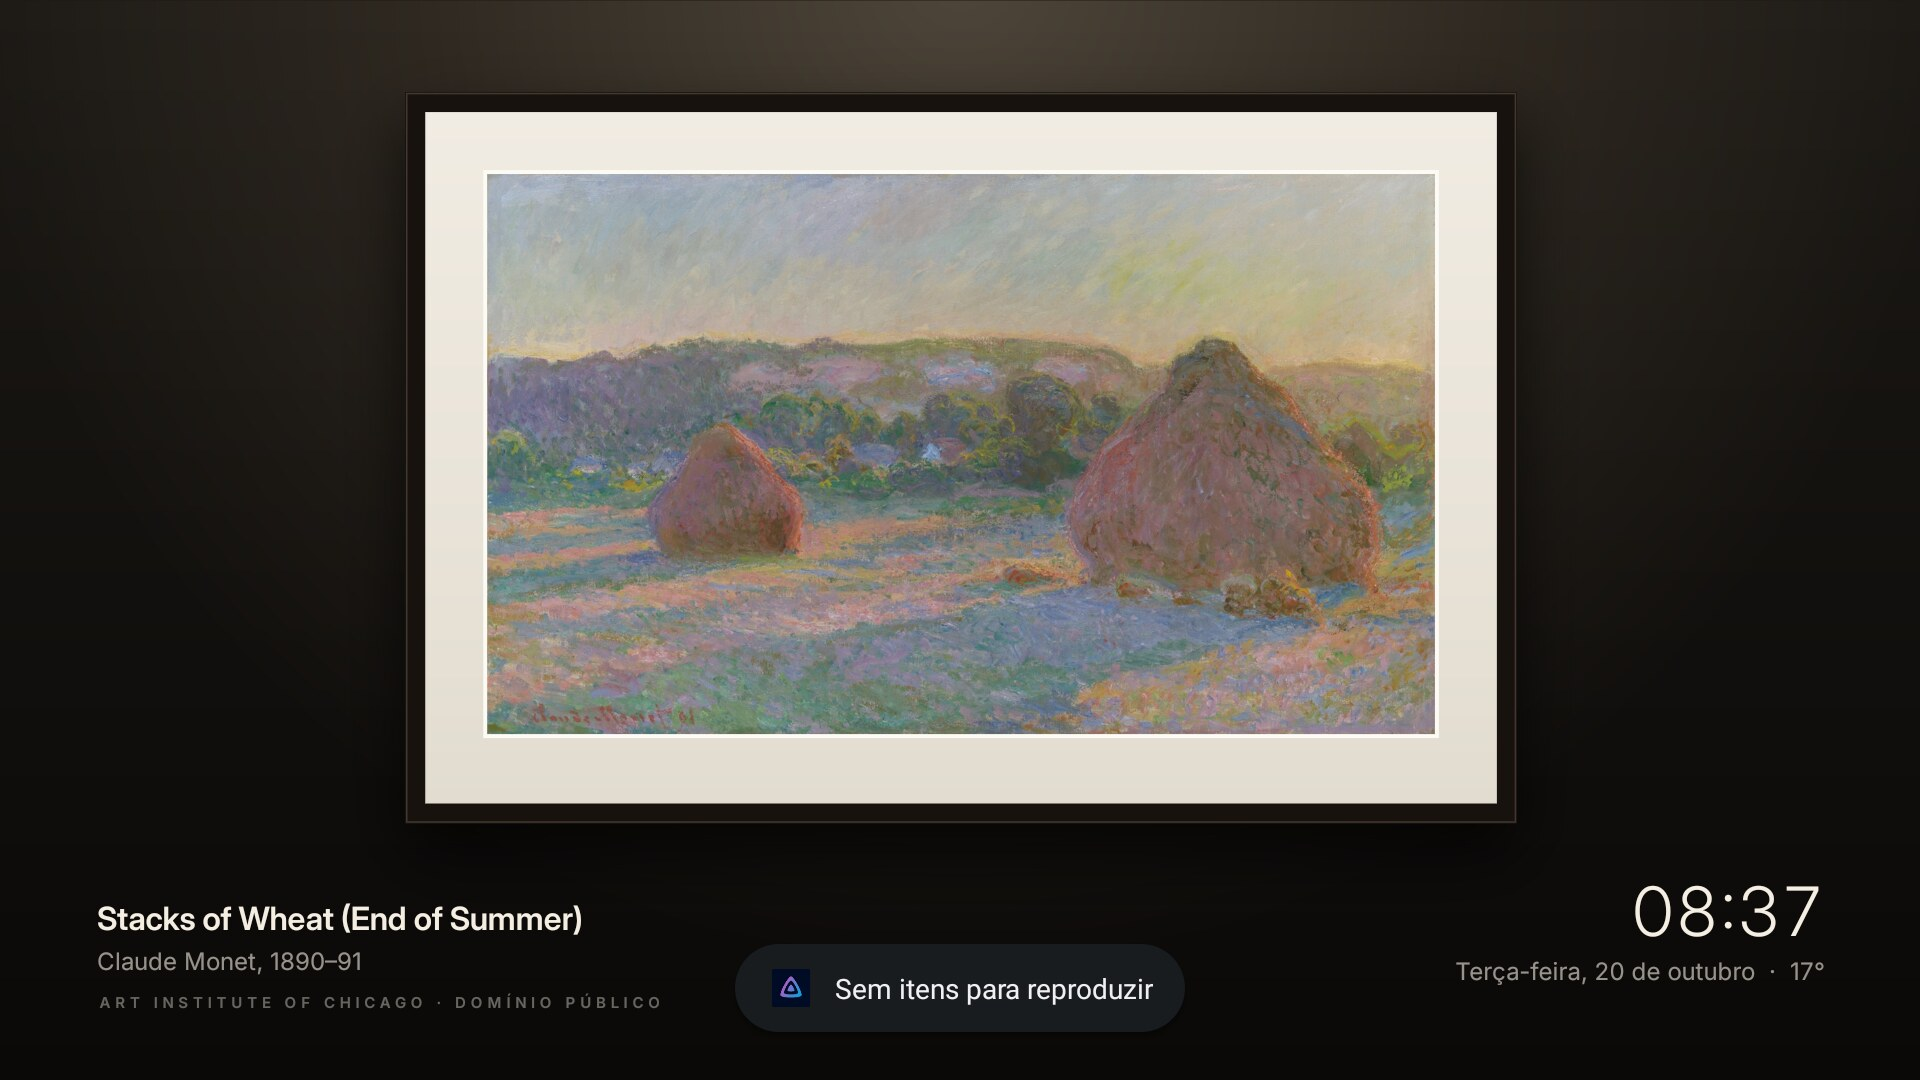
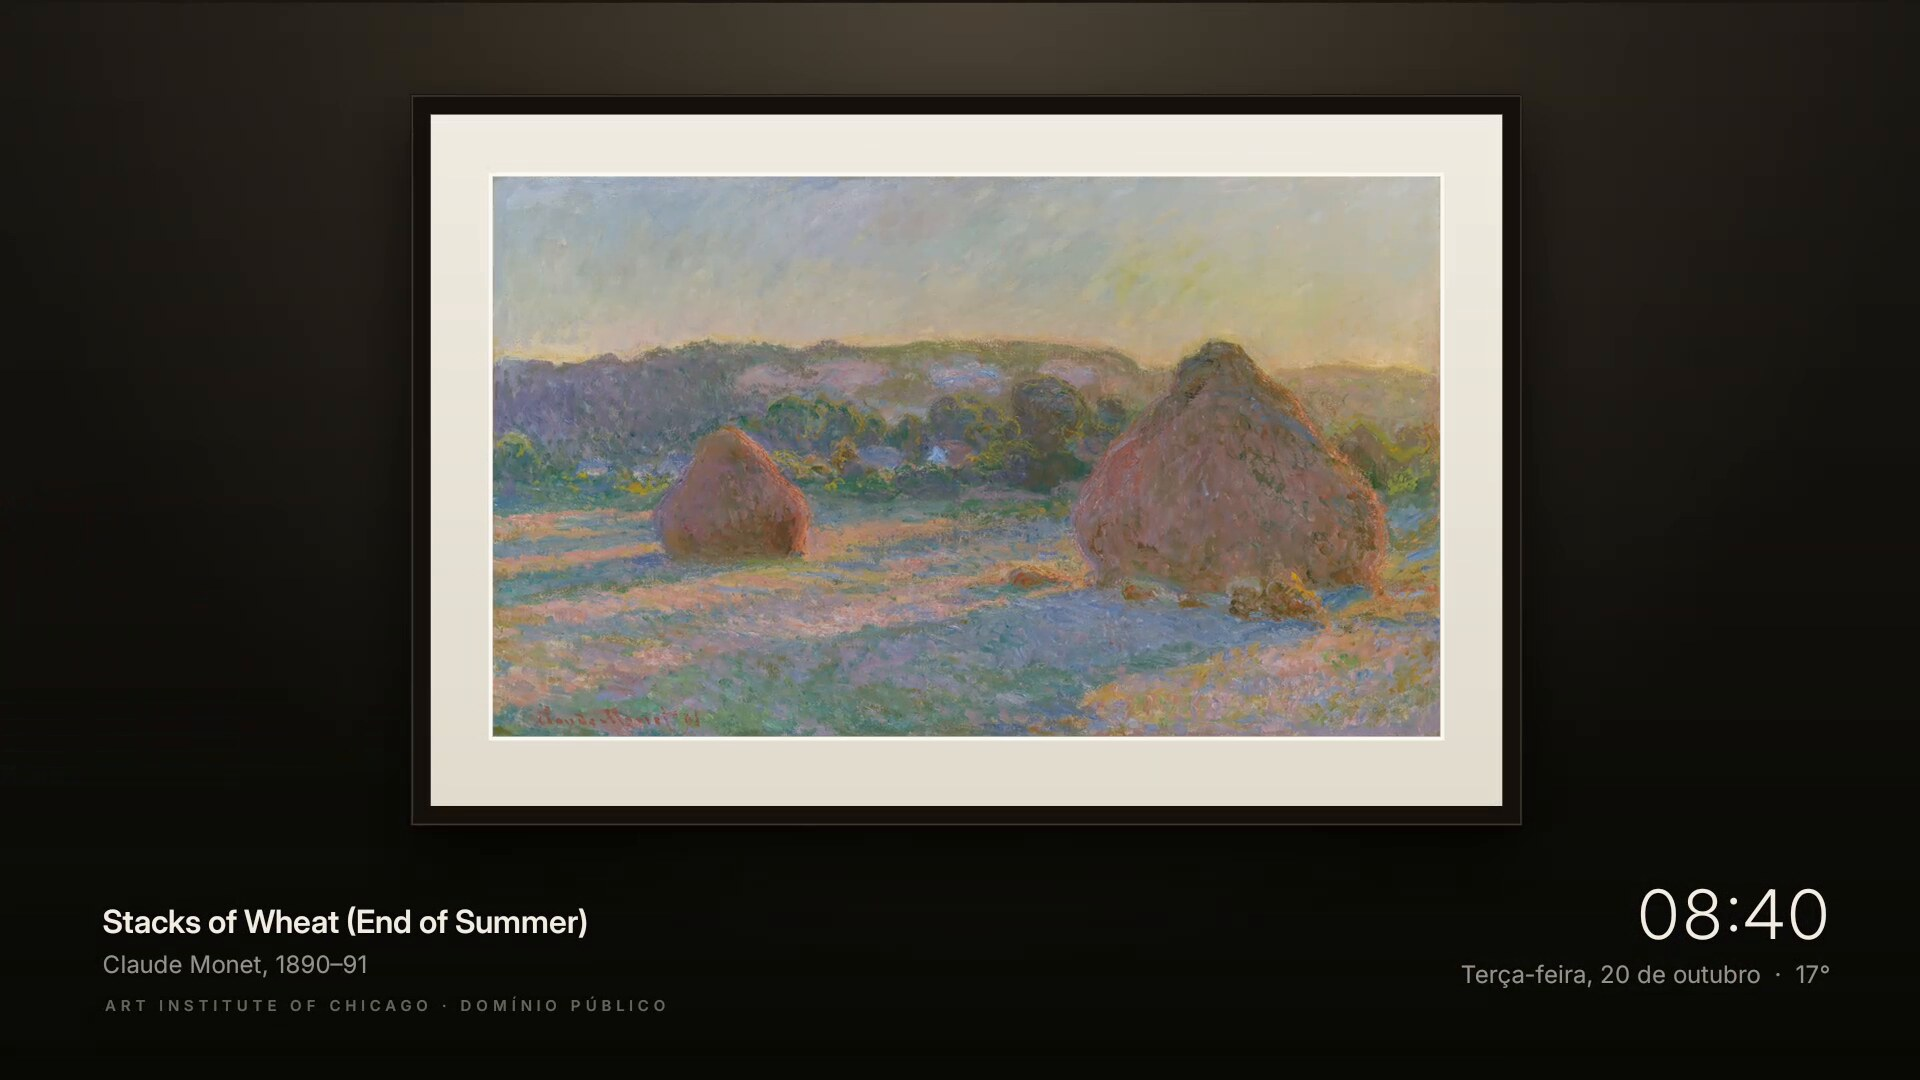
docs: screenshots inside a TV on the install page (#2)
* docs: screenshots inside a TV on the install page

A hair-thin bezel with an aluminium rim and a soft shadow (tools/frame_tv.sh). The gallery screenshot, here and in the README, no longer shows a stray Jellyfin notice.

* docs: link preview shows the framed TV

og:image now points to a 1200x630 JPEG of the framed Home screenshot on the page's velvet (link previews don't all read WebP or transparency); the old unframed home.jpg had no other use.

diff --git a/docs/index.html b/docs/index.html
@@ -8,7 +8,7 @@
 <link rel="icon" href="img/icon.png">
 <meta property="og:title" content="Marquise · Instalar na sua TV">
 <meta property="og:description" content="Seus filmes e séries no Início da Google TV, sem anúncios. Instale com o controle em poucos minutos.">
-<meta property="og:image" content="https://marquise.vitormelo.dev.br/img/home.jpg">
+<meta property="og:image" content="https://marquise.vitormelo.dev.br/img/og.jpg">
 <link rel="preconnect" href="https://fonts.googleapis.com">
 <link rel="preconnect" href="https://fonts.gstatic.com" crossorigin>
 <link href="https://fonts.googleapis.com/css2?family=Inter:wght@400;500;600;700&display=swap" rel="stylesheet">
@@ -46,6 +46,8 @@
   .brand span { font-size: 30px; font-weight: 700; letter-spacing: -.01em; }
   .hero h1 { font-size: clamp(32px, 6vw, 54px); font-weight: 700; letter-spacing: -.02em; max-width: 16ch; }
   .shot { width: 100%; max-width: 100%; border-radius: 18px; box-shadow: 0 30px 80px rgba(0, 0, 0, .55), 0 0 0 1px var(--line); }
+  /* Screenshots inside a TV (the frame, its shadow and the transparent margin are in the image itself). */
+  .tv { width: 100%; }
   .cta { display: flex; flex-wrap: wrap; gap: 14px; justify-content: center; }
   .btn {
     display: inline-flex; align-items: center; gap: 10px; padding: 16px 28px; border-radius: 16px;
@@ -124,7 +126,7 @@
       <small>No app Downloader da TV, digite o código</small>
       <b id="code-value">9141955</b>
     </div>
-    <img class="shot" src="img/home.jpg" alt="O Início do Marquise: saudação com a hora e o clima, seis pôsteres em alta na Netflix, no Prime Video e no Disney+, e a fileira de apps" width="1600" height="900">
+    <img class="tv" src="img/home.webp" alt="O Início do Marquise: saudação com a hora e o clima, seis pôsteres em alta na Netflix, no Prime Video e no Disney+, e a fileira de apps" width="1798" height="1098">
   </header>
 
   <section id="instalar">
@@ -176,7 +178,7 @@
         instala.</p></div>
     </div>
     <figure>
-      <img class="shot" src="img/galeria.jpg" alt="A tela de descanso Galeria: uma pintura de Monet emoldurada, sob um spot, com a legenda do museu e a hora" width="1600" height="900" loading="lazy">
+      <img class="tv" src="img/galeria.webp" alt="A tela de descanso Galeria: uma pintura de Monet emoldurada, sob um spot, com a legenda do museu e a hora" width="1798" height="1098" loading="lazy">
       <figcaption>A tela de descanso Galeria: pinturas em domínio público do Art Institute of Chicago.</figcaption>
     </figure>
   </section>
